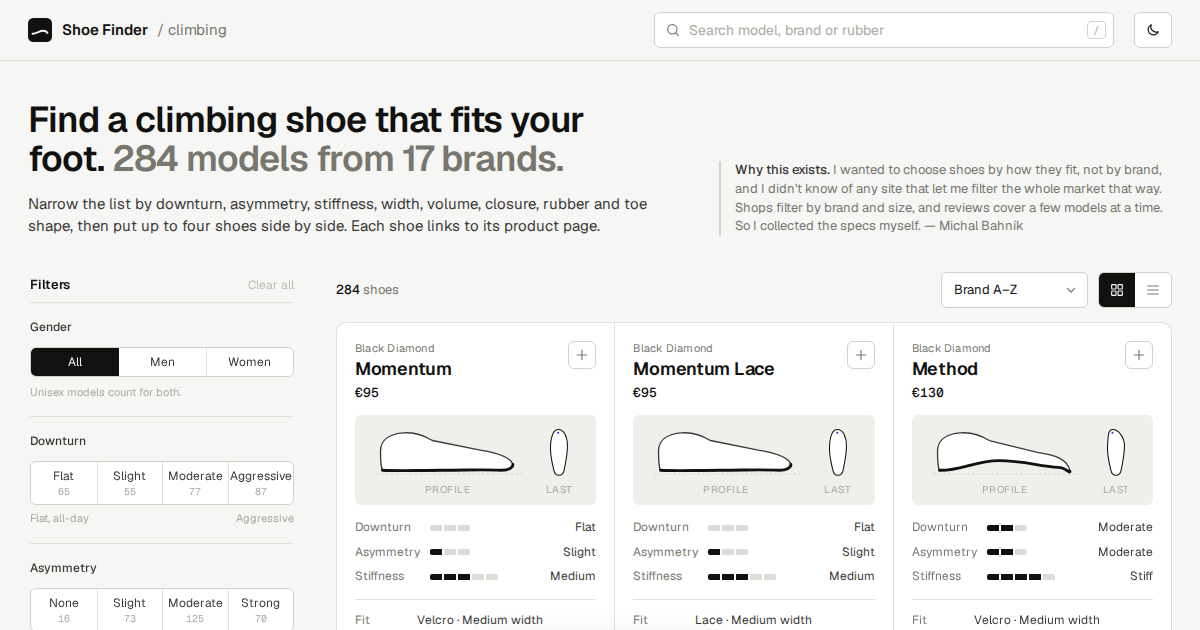
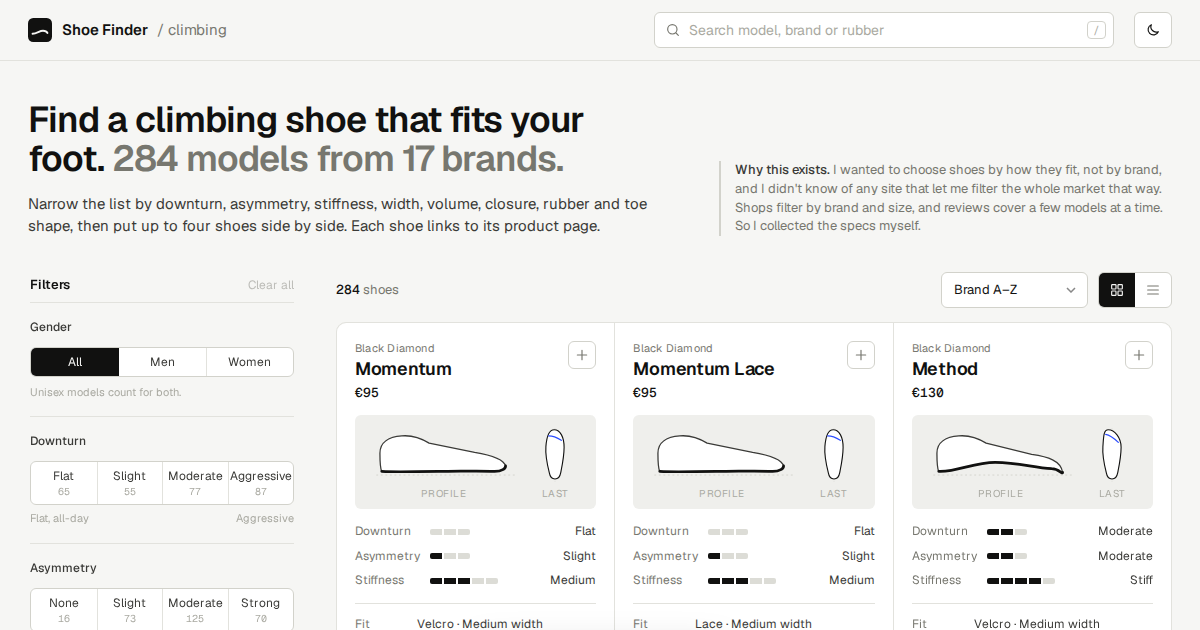
feat: show toe line on last diagram, remove author name

diff --git a/index.html b/index.html
@@ -16,7 +16,7 @@
 <meta property="og:image" content="https://michalbahnik.github.io/climbing-shoes/og.png">
 <meta name="twitter:card" content="summary_large_image">
 <script type="application/ld+json">
-{"@context":"https://schema.org","@type":"WebApplication","name":"Climbing Shoe Finder","url":"https://michalbahnik.github.io/climbing-shoes/","applicationCategory":"SportsApplication","operatingSystem":"Any","description":"Filter and compare climbing shoes by downturn, asymmetry, stiffness, width, rubber, closure and toe shape.","author":{"@type":"Person","name":"Michal Bahník"},"offers":{"@type":"Offer","price":"0","priceCurrency":"EUR"}}
+{"@context":"https://schema.org","@type":"WebApplication","name":"Climbing Shoe Finder","url":"https://michalbahnik.github.io/climbing-shoes/","applicationCategory":"SportsApplication","operatingSystem":"Any","description":"Filter and compare climbing shoes by downturn, asymmetry, stiffness, width, rubber, closure and toe shape.","offers":{"@type":"Offer","price":"0","priceCurrency":"EUR"}}
 </script>
 <script data-goatcounter="https://climbing-shoes.goatcounter.com/count" async src="https://gc.zgo.at/count.js"></script>
 <link rel="preconnect" href="https://fonts.googleapis.com">
@@ -102,7 +102,7 @@ aside{position:sticky;top:16px;max-height:calc(100vh - 32px);overflow:auto;scrol
 .seg button[aria-pressed="true"] + button{border-left-color:var(--ink)}
 .seg button.zero{color:var(--faint)}
 .seg.radio button{flex-direction:row;justify-content:center;padding:7px 4px}
-.seg svg.toe{width:22px;height:14px;margin-bottom:2px}
+.seg svg.toe{width:30px;height:20px;margin-bottom:2px}
 
 .chips{display:flex;flex-wrap:wrap;gap:6px}
 .chip{border:1px solid var(--line-2);background:var(--panel);border-radius:var(--r);padding:4px 8px;font-size:12px;display:inline-flex;gap:6px;align-items:baseline;color:var(--ink-2)}
@@ -153,10 +153,10 @@ select{height:36px;border:1px solid var(--line-2);background-color:var(--panel);
 .check{width:28px;height:28px;border:1px solid var(--line-2);border-radius:var(--r);display:grid;place-items:center;color:var(--muted);flex:none;background:var(--panel)}
 .check:hover{border-color:var(--ink);color:var(--ink)}
 .check[aria-pressed="true"]{background:var(--accent);border-color:var(--accent);color:var(--on-accent)}
-.figs{display:grid;grid-template-columns:1fr 46px;gap:10px;background:var(--sunk);border-radius:var(--r);padding:12px 14px 8px}
+.figs{display:grid;grid-template-columns:1fr 54px;gap:10px;background:var(--sunk);border-radius:var(--r);padding:12px 14px 8px}
 .figs figure{margin:0;display:flex;flex-direction:column;align-items:center;gap:4px;min-width:0}
 .figs figcaption{font-size:10px;color:var(--faint);letter-spacing:.05em;text-transform:uppercase}
-.figs svg{width:100%;height:52px;overflow:visible}
+.figs svg{width:100%;height:56px;overflow:visible}
 .specs{display:grid;grid-template-columns:auto auto 1fr;gap:7px 10px;font-size:12px;align-items:center;margin:0}
 .specs dt{color:var(--muted)}
 .specs dd{margin:0}
@@ -296,7 +296,7 @@ footer p{margin:0;max-width:720px}
     <h1>Find a climbing shoe that fits your foot. <span id="introStats"></span></h1>
     <p class="lead">Narrow the list by downturn, asymmetry, stiffness, width, volume, closure, rubber and toe shape, then put up to four shoes side by side. Each shoe links to its product page.</p>
   </div>
-  <p class="why"><b>Why this exists.</b> I wanted to choose shoes by how they fit, not by brand, and I didn't know of any site that let me filter the whole market that way. Shops filter by brand and size, and reviews cover a few models at a time. So I collected the specs myself. — Michal Bahník</p>
+  <p class="why"><b>Why this exists.</b> I wanted to choose shoes by how they fit, not by brand, and I didn't know of any site that let me filter the whole market that way. Shops filter by brand and size, and reviews cover a few models at a time. So I collected the specs myself.</p>
 </section>
 
 <div class="wrap">
@@ -488,17 +488,26 @@ function profileSVG(s){
 function lastSVG(s){
   const ax = 23 - s.asym * 4.2, w = s.width === "N" ? -1.5 : s.width === "W" ? 1.8 : 0;
   const l = 7 - w, r = 33 + w;
+  // Line over the toe tips: falls away from the big toe more steeply the more asymmetric the shoe.
+  const a = s.asym, y1 = 15 - a * 2.2, yb = 14 - a * 1.2, y2 = 16 + a * 3;
+  const toeLine = `M${l + 4} ${y1} Q${(l + r) / 2 - a} ${yb} ${r - 4} ${y2}`;
   return `<svg viewBox="0 0 40 80" aria-hidden="true">
     <line x1="20" y1="2" x2="20" y2="78" stroke="var(--line-2)" stroke-width="1" stroke-dasharray="2 3"/>
     <path d="M${l + 5} 66 C${l + 2} 54 ${l - 1} 40 ${l} 28 C${l + 1} 15 ${ax - 7} 4 ${ax} 4 C${ax + 9} 4 ${r} 15 ${r} 29 C${r} 43 ${r - 3} 56 ${r - 5} 66 C${r - 7} 77 ${l + 7} 77 ${l + 5} 66 Z"
       fill="var(--panel)" stroke="var(--ink)" stroke-width="1.6" stroke-linejoin="round"/>
-    <circle cx="${ax}" cy="9" r="1.7" fill="var(--accent)"/>
+    <path d="${toeLine}" fill="none" stroke="var(--accent)" stroke-width="1.8" stroke-linecap="round" stroke-linejoin="round"/>
   </svg>`;
 }
 const figs = s => `<div class="figs"><figure>${profileSVG(s)}<figcaption>Profile</figcaption></figure><figure>${lastSVG(s)}<figcaption>Last</figcaption></figure></div>`;
 
-const TOE_ICON = {E:[5,6.5,8,9.5,11],G:[6.5,5,7.5,9.5,11],R:[5.5,5.5,6.5,8.5,10.5]};
-const toeSVG = k => `<svg class="toe" viewBox="0 0 30 16" aria-hidden="true">${TOE_ICON[k].map((y, i) => `<ellipse cx="${4 + i * 5.6}" cy="${y}" rx="${i ? 2 : 2.7}" ry="${i ? 2.5 : 3.1}" fill="currentColor"/>`).join("")}</svg>`;
+// Toe tips from big toe to little toe (y of each tip; smaller = longer toe).
+const TOE_ICON = {E:[4,6.5,9,11.5,14], G:[6,3.5,6.5,10,13], R:[5,5,5.6,9.5,13]};
+const toeSVG = k => {
+  const xs = [5, 11, 16.5, 21.5, 26], tips = TOE_ICON[k];
+  const toes = tips.map((y, i) => `<ellipse cx="${xs[i]}" cy="${y + 3.2}" rx="${i ? 2.1 : 2.9}" ry="${i ? 2.6 : 3.2}" fill="currentColor"/>`).join("");
+  const line = "M" + tips.map((y, i) => `${xs[i]} ${y - 1.4}`).join(" L");
+  return `<svg class="toe" viewBox="0 0 31 20" aria-hidden="true">${toes}<path d="${line}" fill="none" stroke="currentColor" stroke-width="1.3" stroke-linecap="round" stroke-linejoin="round" opacity=".8"/></svg>`;
+};
 
 /* ---------- render helpers ---------- */
 const esc = s => String(s).replace(/[&<>"']/g, c => ({"&":"&amp;","<":"&lt;",">":"&gt;",'"':"&quot;","'":"&#39;"}[c]));
